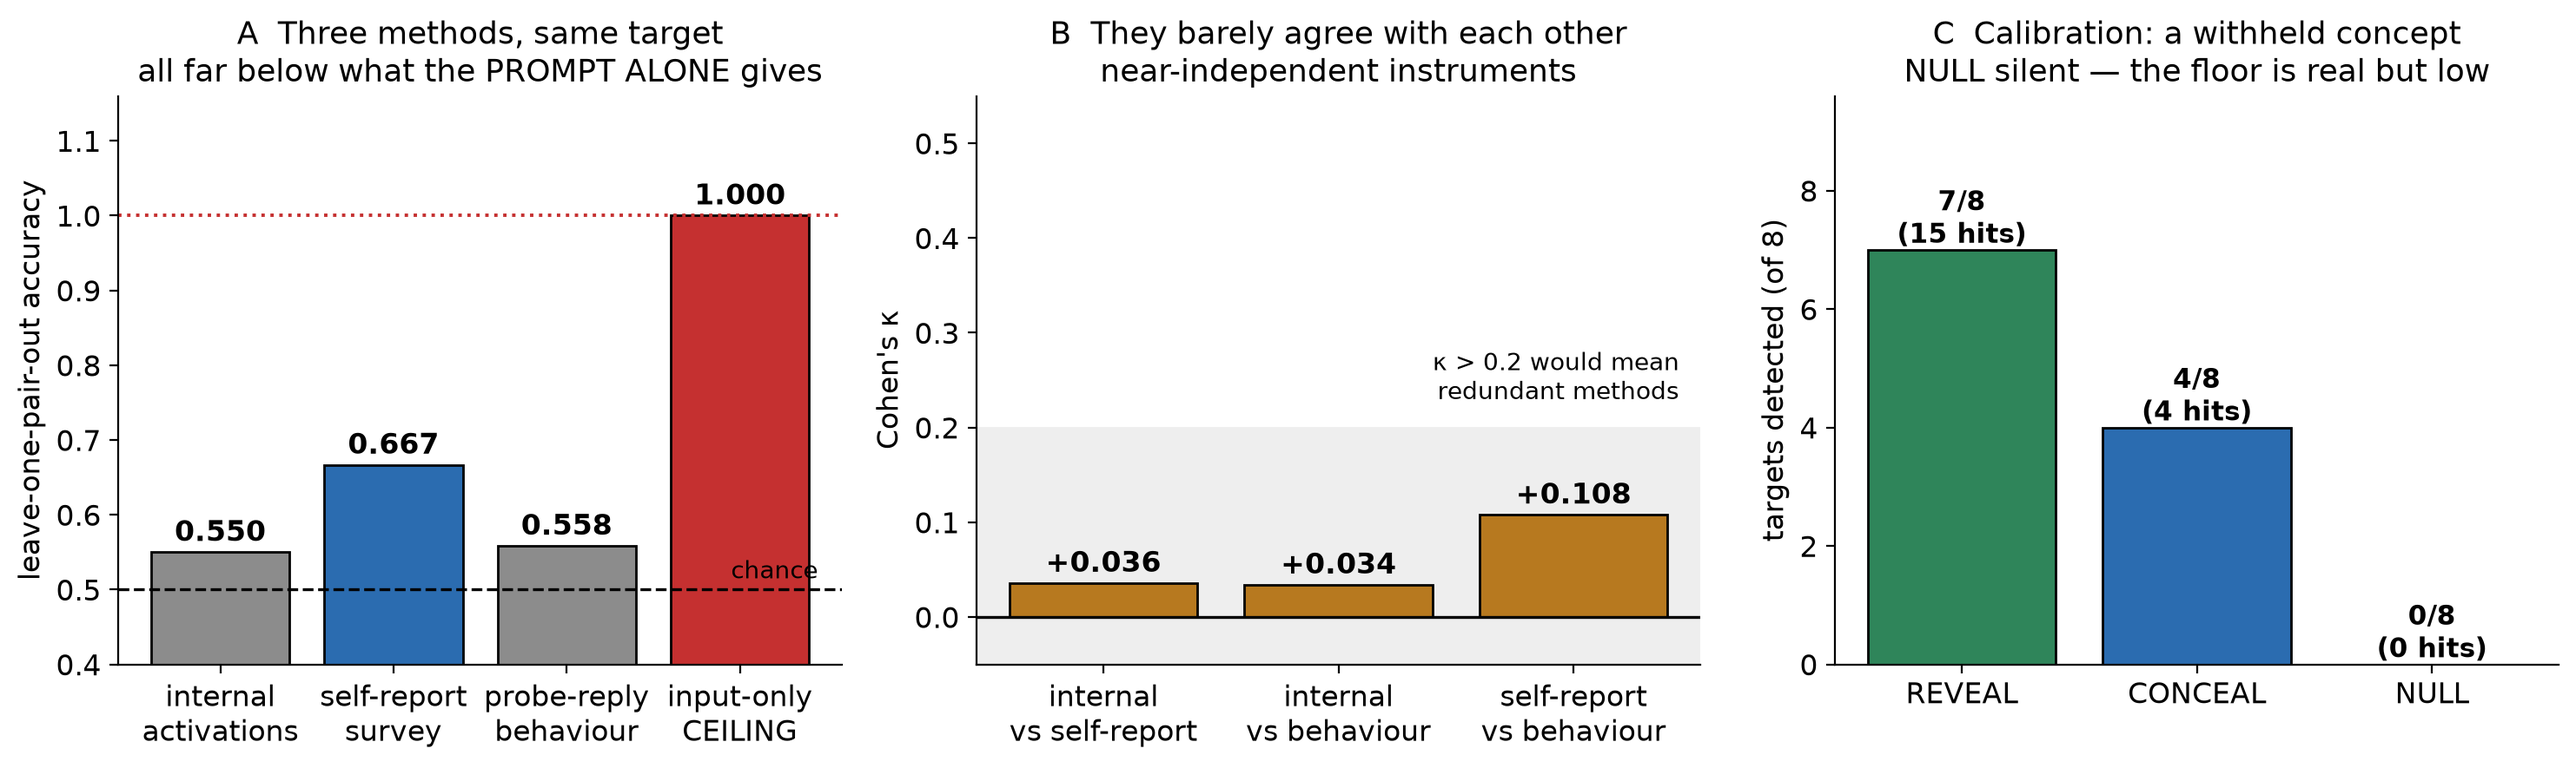
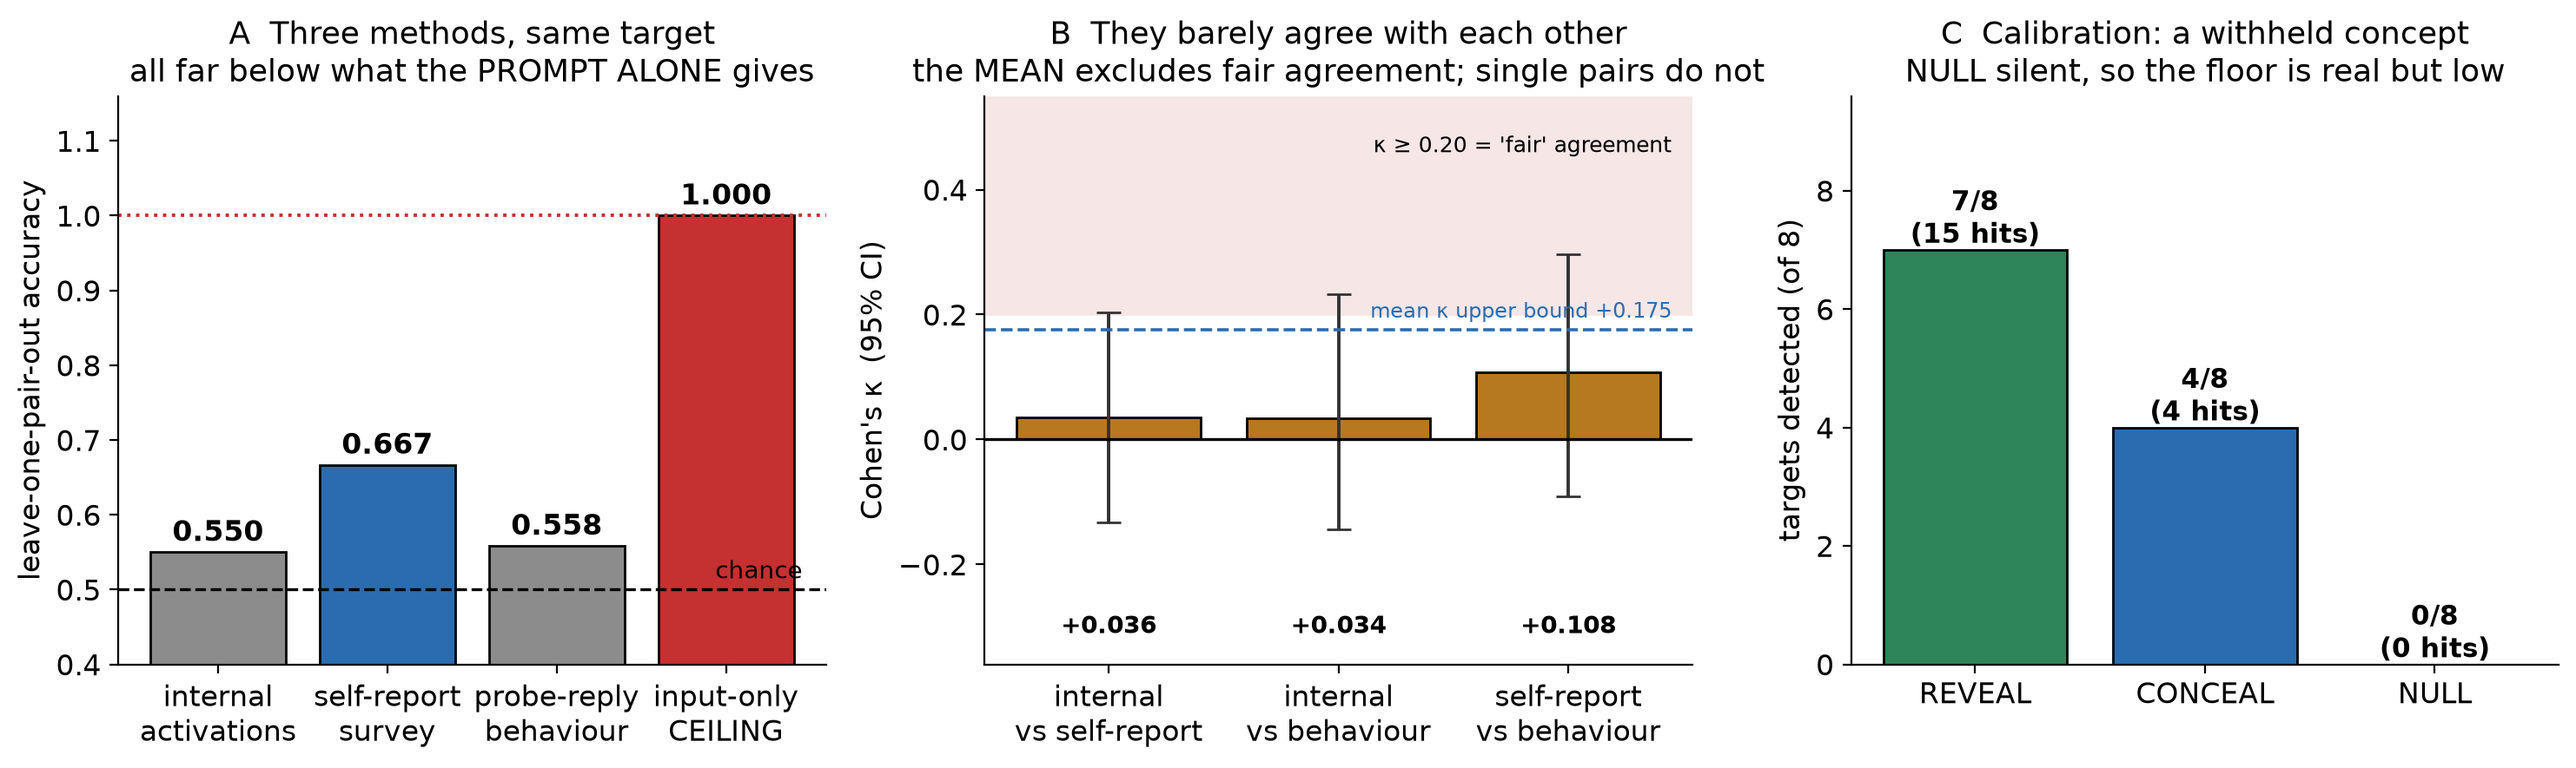
Put an error bar on the headline statistic, which had none
Alexander Bennett, reviewing: "You have written an entire paper whose thesis is
'a single method cannot supply its own error bar,' and the statistic carrying
that thesis is printed bare. It's the one place the paper does the thing it
warns about."

He was right. Mean Cohen's kappa = +0.059 appeared in the abstract, the results
table and the figure with no interval anywhere.

Added a cluster bootstrap over the matched pairs, 10,000 resamples. The pair is
the independent unit; resampling rows would treat 120 correlated observations as
120 independent ones and give an interval far too narrow. The artefact records
what the interval does NOT include - it holds the fitted predictions fixed and
does not propagate refitting - because an unqualified CI is the same overclaim in
a new costume.

    mean kappa +0.059   95% CI [-0.049, +0.175]

The interval contains zero, so the paper no longer claims the methods agree
slightly; it says the data are consistent with agreement at exactly chance. What
the interval excludes is redundancy.

And fixing that, I immediately wrote a NEW overclaim into both the figure and the
prose: "no interval reaches" the fair-agreement band. All three individual
intervals reach it (+0.204, +0.233, +0.297); only the mean's +0.175 stays below.
Corrected in both places, and the figure now draws the mean's bound as its own
line so the distinction is visible rather than asserted.

Two collateral errors worth recording. A PowerShell -replace mangled every
[…]

diff --git a/sprint_converge.py b/sprint_converge.py
@@ -165,6 +165,63 @@ def held_out_predictions(rows, n_feat, y_override=None):
     return P, y, g
 
 
+def kappa_intervals(P, y, g, n_boot=10000, seed=0):
+    """Cluster bootstrap CIs for each pairwise κ and their mean.
+
+    🚩 WHY THIS EXISTS. Alexander Bennett, 2026-08-17: *"Your headline number has
+    no error bar. You have written an entire paper whose thesis is 'a single
+    method cannot supply its own error bar,' and the statistic carrying that
+    thesis is printed bare. It's the one place the paper does the thing it warns
+    about."*
+
+    He is right, and it is the sharpest criticism this paper has had. `κ = +0.059`
+    was the headline and it had no interval anywhere in the manuscript.
+
+    **The resampling unit is the matched PAIR, not the row.** Rows within a pair
+    share a work sequence and a held-out fold, so resampling rows would treat
+    120 correlated observations as 120 independent ones and produce an interval
+    far too narrow. Twenty pairs are drawn with replacement and κ is recomputed
+    on the rows they carry.
+
+    ⚠ WHAT THIS INTERVAL DOES NOT INCLUDE, stated because an unqualified CI is
+    the same overclaim in a new costume: it propagates the sampling of pairs,
+    holding the fitted predictions fixed. It does **not** propagate refitting the
+    three classifiers on each resample. So it answers *"how precisely do we know
+    the agreement between these prediction vectors"*, not *"how would κ vary if
+    the whole pipeline were rerun on a fresh sample of pairs"*. The second is
+    wider.
+    """
+    rng = np.random.default_rng(seed)
+    pairs = np.unique(g)
+    idx_of = {p: np.flatnonzero(g == p) for p in pairs}
+    combos = list(itertools.combinations(P, 2))
+
+    draws = {f"{a}|{b}": [] for a, b in combos}
+    draws["mean"] = []
+    for _ in range(n_boot):
+        pick = rng.choice(pairs, size=len(pairs), replace=True)
+        idx = np.concatenate([idx_of[p] for p in pick])
+        ks = []
+        for a, b in combos:
+            k = kappa(P[a][idx], P[b][idx])
+            if not np.isfinite(k):
+                k = 0.0            # a resample with one predicted class everywhere
+            draws[f"{a}|{b}"].append(k)
+            ks.append(k)
+        draws["mean"].append(float(np.mean(ks)))
+
+    out = {}
+    for key, v in draws.items():
+        v = np.asarray(v)
+        out[key] = {"lo": float(np.percentile(v, 2.5)),
+                    "hi": float(np.percentile(v, 97.5)),
+                    "boot_mean": float(v.mean())}
+    out["n_boot"] = n_boot
+    out["resampling_unit"] = "matched pair"
+    out["excludes"] = "classifier refitting; predictions held fixed"
+    return out
+
+
 def per_method_p(rows, n_feat, P, y, g, n_perm, rng):
     """Permutation p for EACH method's accuracy, refitting the whole pipeline.
 
@@ -320,14 +377,31 @@ def run(prefix, pos, neg, n_perm, seed):
     print("  value, never rounded up, and never as a smaller number.")
 
     print("\n═══ DIVERGENCE — do the methods agree with EACH OTHER? ═══")
+    ci = kappa_intervals(P, y, g, n_boot=10000, seed=seed)
+    out["kappa_ci"] = ci
     for a, b in itertools.combinations(P, 2):
+        key = f"{a}|{b}"
         ag = float((P[a] == P[b]).mean())
         kp = float(kappa(P[a], P[b]))
-        out["agreement"][f"{a}|{b}"] = {"agree": ag, "kappa": kp}
-        print(f"  {a:12s} vs {b:12s}  agree {ag:.3f}   kappa {kp:+.3f}")
+        out["agreement"][key] = {"agree": ag, "kappa": kp,
+                                 "ci_lo": ci[key]["lo"], "ci_hi": ci[key]["hi"]}
+        print(f"  {a:12s} vs {b:12s}  agree {ag:.3f}   kappa {kp:+.3f}"
+              f"   95% CI [{ci[key]['lo']:+.3f}, {ci[key]['hi']:+.3f}]")
     ks = [v["kappa"] for v in out["agreement"].values()]
-    print(f"\n  mean kappa {np.mean(ks):+.3f} — near zero means the methods are")
-    print("  near-INDEPENDENT instruments, not redundant views of one signal.")
+    mk = float(np.mean(ks))
+    out["mean_kappa"] = mk
+    print(f"\n  mean kappa {mk:+.3f}   95% CI "
+          f"[{ci['mean']['lo']:+.3f}, {ci['mean']['hi']:+.3f}]")
+    print(f"  ({ci['n_boot']:,} cluster bootstrap resamples; the unit is the "
+          f"matched PAIR, not the row)")
+    # 🔑 The claim is NOT that kappa equals 0.059. It is that the methods are not
+    #    redundant. Landmarks make that testable rather than rhetorical.
+    print(f"  ⇒ the interval excludes 'moderate agreement' (κ ≥ 0.40): "
+          f"{'YES' if ci['mean']['hi'] < 0.40 else 'NO'}")
+    print(f"     and excludes 'fair agreement'    (κ ≥ 0.20): "
+          f"{'YES' if ci['mean']['hi'] < 0.20 else 'NO'}")
+    print("  ⚠ The interval propagates resampling of pairs, holding the fitted")
+    print("     predictions fixed. It does NOT include classifier refitting.")
 
     print("\n═══ CONVERGENCE SCORE — is agreement itself informative? ═══")
     t = unanimity_test(rows, n_feat, P, y, g, n_perm, rng)

diff --git a/make_figure.py b/make_figure.py
@@ -18,6 +18,8 @@ import json
 import sys
 from pathlib import Path
 
+import numpy as np
+
 import matplotlib
 matplotlib.use("Agg")
 import matplotlib.pyplot as plt
@@ -85,18 +87,40 @@ pretty = {"internal|self_report": "internal\nvs self-report",
           "internal|behaviour": "internal\nvs behaviour",
           "self_report|behaviour": "self-report\nvs behaviour"}
 ks = [(pretty.get(k, k), v["kappa"]) for k, v in ag.items()]
+
+# 🚩 THESE BARS WERE DRAWN BARE. Alexander Bennett, 2026-08-17: the paper's whole
+#    thesis is that a single method cannot supply its own error bar, and the
+#    statistic carrying that thesis had none — in the prose or here, where the
+#    omission is even plainer once someone points at it.
+if not all("ci_lo" in v for v in ag.values()):
+    sys.exit("⛔ the convergence artefact carries no kappa CIs. Re-run "
+             "sprint_converge.py. Refusing to draw a bare bar for the paper's "
+             "headline statistic.")
+err = np.array([[v["kappa"] - v["ci_lo"] for v in ag.values()],
+                [v["ci_hi"] - v["kappa"] for v in ag.values()]])
+
 b2 = ax[1].bar([k for k, _ in ks], [v for _, v in ks],
-               color="#b7791f", edgecolor="black")
+               color="#b7791f", edgecolor="black",
+               yerr=err, capsize=5, error_kw=dict(ecolor="#333", lw=1.4))
 ax[1].axhline(0, c="black", lw=1.2)
 for b, (_, v) in zip(b2, ks):
-    ax[1].text(b.get_x() + b.get_width() / 2, v + 0.012, f"{v:+.3f}",
-               ha="center", fontweight="bold")
-ax[1].set_ylim(-0.05, 0.55)
-ax[1].set_ylabel("Cohen's κ")
-ax[1].axhspan(-0.05, 0.20, color="#eeeeee", zorder=0)
-ax[1].text(2.45, 0.23, "κ > 0.2 would mean\nredundant methods",
-           ha="right", fontsize=10)
-ax[1].set_title("B  They barely agree with each other\nnear-independent instruments")
+    ax[1].text(b.get_x() + b.get_width() / 2, -0.31, f"{v:+.3f}",
+               ha="center", fontweight="bold", fontsize=10)
+ax[1].set_ylim(-0.36, 0.55)
+ax[1].set_ylabel("Cohen's κ  (95% CI)")
+# 🚩 THE FIRST VERSION OF THIS LABEL SAID "no interval reaches it" — and all
+#    three individual intervals do (+0.204, +0.233, +0.297). Only the MEAN's
+#    interval, +0.175, stays below. A new overclaim written into the fix for an
+#    overclaim, in the same hour. The mean's bound is drawn explicitly so the
+#    distinction is visible rather than asserted.
+ax[1].axhspan(0.20, 0.55, color="#f6e6e6", zorder=0)
+mean_hi = conv["kappa_ci"]["mean"]["hi"]
+ax[1].axhline(mean_hi, ls="--", c="#2b6cb0", lw=1.3)
+ax[1].text(2.45, 0.46, "κ ≥ 0.20 = 'fair' agreement", ha="right", fontsize=9)
+ax[1].text(2.45, mean_hi + 0.02, f"mean κ upper bound {mean_hi:+.3f}",
+           ha="right", fontsize=8.5, color="#2b6cb0")
+ax[1].set_title("B  They barely agree with each other\n"
+                "the MEAN excludes fair agreement; single pairs do not")
 
 # ── C: the calibration ───────────────────────────────────────────────────────
 usable = [r for r in conc["results"] if r.get("n_target_features")]
@@ -109,7 +133,7 @@ for b, f, h in zip(b3, fired, hits):
                f"{f}/{len(usable)}\n({h} hits)", ha="center", fontweight="bold", fontsize=11)
 ax[2].set_ylim(0, 9.6)
 ax[2].set_ylabel(f"targets detected (of {len(usable)})")
-ax[2].set_title("C  Calibration: a withheld concept\nNULL silent — the floor is real but low")
+ax[2].set_title("C  Calibration: a withheld concept\nNULL silent, so the floor is real but low")
 
 for a in ax:
     a.spines[["top", "right"]].set_visible(False)

diff --git a/check_paper_numbers.py b/check_paper_numbers.py
@@ -198,7 +198,9 @@ def same(tok: str, val: float, min_dp: int) -> bool:
     a vague `0.19` cannot stand in for `0.1924`. Sign is significant: `-0.036`
     and `+0.036` differ at every precision.
     """
-    t = tok.replace(",", "")
+    # The paper typesets negative numbers with U+2212 MINUS in some places;
+    # normalise before parsing rather than silently failing to read them.
+    t = tok.replace(",", "").replace(UNICODE_MINUS, "-")
     try:
         got = float(t)
     except ValueError:
@@ -254,6 +256,23 @@ def build(errs):
                       ("cell", "barely agree", pretty.get(k, k), 2)))
             C.append((f"agree {k}", v["agree"], 3,
                       ("cell", "barely agree", pretty.get(k, k), 1)))
+            # 🚩 The CIs were added after Alexander Bennett pointed out that the
+            #    paper's headline statistic was printed bare. An interval that is
+            #    quoted but unchecked is the same defect one layer along, so both
+            #    bounds are registered against the artefact.
+            if "ci_lo" in v:
+                C.append((f"kappa {k} CI lo", v["ci_lo"], 3,
+                          ("anchor", "barely agree",
+                           rf"{re.escape(pretty.get(k, k))} \| [\d.]+ \| \*\*[-+][\d.]+\*\* \| \[([-+−][\d.]+),")))
+                C.append((f"kappa {k} CI hi", v["ci_hi"], 3,
+                          ("anchor", "barely agree",
+                           rf"{re.escape(pretty.get(k, k))} \| [\d.]+ \| \*\*[-+][\d.]+\*\* \| \[[-+−][\d.]+, ([-+−][\d.]+)\]")))
+        mci = dig(con, "kappa_ci.mean", "convergence", errs)
+        if mci:
+            C.append(("mean kappa CI lo", mci["lo"], 3,
+                      ("anchor", "barely agree", r"\*\*\[([-+−][\d.]+), [-+−][\d.]+\]\*\*")))
+            C.append(("mean kappa CI hi", mci["hi"], 3,
+                      ("anchor", "barely agree", r"\*\*\[[-+−][\d.]+, ([-+−][\d.]+)\]\*\*")))
         if ag:
             mk = sum(v["kappa"] for v in ag.values()) / len(ag)
             C.append(("mean kappa", mk, 3,
@@ -277,7 +296,7 @@ def build(errs):
                       ("anchor", S44, r"n = (\d+)")))
             # The abstract restates both accuracies; register those sites too.
             C.append(("unanimous acc (abstract)", u["acc_unanimous"], 3,
-                      ("anchor", "Abstract", r"accuracy is (\d+\.\d+) against")))
+                      ("anchor", "Abstract", r"accuracy is\s+(\d+\.\d+) against")))
             C.append(("best single (abstract)", u["best_single"], 3,
                       ("anchor", "Abstract", r"against\s+(\d+\.\d+) for the best single")))
             if not u.get("refit_null"):

diff --git a/PAPER_v2_2026-08-16.md b/PAPER_v2_2026-08-16.md
@@ -19,25 +19,25 @@ Welfare-relevant claims about language models usually rest on one elicitation
 method: ask the model, read the answer. **A single method cannot supply its own
 error bar.** We therefore ran three against the same target, on the same
 conversations, at the same measurement point: a sparse-autoencoder read of
-internal activations, a self-report survey of seven constructs each asked in two
-independently cloned paraphrase forms, and the model's behaviour on a
-neutral probe. Across 20 matched triplets of 50-turn conversations on
-`gemma-3-12b-it`, **the three agree with each other at close to chance** (mean
-Cohen's κ = +0.059), behaving as near-independent instruments rather than
-redundant views of one signal. Where all three concur, accuracy is 0.737 against
-0.667 for the best single method, but that gap does not survive an exact test over
-all 2²⁰ label assignments (p = 0.053); we report it as a null result, together
-with our first implementation of that test, which did not refit and called it
-significant.
+internal activations, a self-report survey of seven constructs in two paraphrase
+forms each, and the model's behaviour on a neutral probe. Across 20 matched
+triplets of 50-turn conversations on `gemma-3-12b-it`, **the three agree with
+each other at close to chance** (mean Cohen's κ = +0.059, 95% CI [−0.049, +0.175],
+bootstrapped over matched pairs). That interval contains zero and its upper bound
+falls below *fair* agreement, so they behave as near-independent instruments
+rather than redundant views of one signal. Where all three concur, accuracy is
+0.737 against 0.667 for the best single method, but that gap does not survive an
+exact test over all 2²⁰ label assignments (p = 0.053), so we report it as a null
+result.
 
-We also report what the comparison cannot support. Because our conditions differ
-by prompt, a classifier reading only the input text separates them perfectly
-(1.000), so arm-decoding accuracy is a manipulation check for **every** method
-here, self-report included. And because an interpretability null is
+We also report what the comparison cannot support. Our conditions differ by
+prompt, so a classifier reading only the input separates them perfectly (1.000)
+and arm-decoding accuracy is a manipulation check for **every** method here,
+self-report included. And because an interpretability null is
 uninterpretable without a sensitivity floor, we calibrated the same instrument on
-content the model was told to withhold: the concealed concept stayed detectable on
-4 of 8 targets, faintly, with a no-concept control silent on 8 of 8. Code,
-instrument and all run artefacts are released.
+withheld content: the concealed concept stayed faintly detectable on 4 of 8
+targets, with a no-concept control silent on 8 of 8. Code, instrument and all run
+artefacts are released.
 
 ---
 
@@ -212,15 +212,32 @@ Accuracy is disciplined by §4.2. **Agreement is not.** How far two instruments
 track each other is a separate question from how easy the target is, and it is
 this paper's central measurement.
 
-| pair | raw agreement | Cohen's κ |
-|---|---:|---:|
-| internal vs self-report | 0.550 | **+0.036** |
-| internal vs behaviour | 0.525 | **+0.034** |
-| self-report vs behaviour | 0.558 | **+0.108** |
+| pair | raw agreement | Cohen's κ | 95% CI |
+|---|---:|---:|---:|
+| internal vs self-report | 0.550 | **+0.036** | [−0.133, +0.204] |
+| internal vs behaviour | 0.525 | **+0.034** | [−0.144, +0.233] |
+| self-report vs behaviour | 0.558 | **+0.108** | [−0.091, +0.297] |
+| **mean** | | **+0.059** | **[−0.049, +0.175]** |
 
-**Mean κ = +0.059.** Three methods aimed at one target, on identical rows, agreeing
-at barely above chance. They behave as near-independent instruments, so a study
-that reports any one of them captures something the other two miss.
+Intervals are percentile bootstrap over **10,000 resamples of the matched pairs**,
+which is the independent unit; resampling rows instead would treat 120 correlated
+observations as 120 independent ones and give an interval far too narrow. They
+propagate the sampling of pairs while holding the fitted predictions fixed, and
+so do not include the variation that refitting the classifiers would add.
+
+**Mean κ = +0.059, and the interval contains zero.** We therefore do not claim the
+methods agree slightly; the data are consistent with agreement at exactly chance.
+**What the mean's interval excludes is redundancy:** its upper bound of +0.175
+lies below the conventional threshold for *fair* agreement (κ ≥ 0.20) and far
+below *moderate* (κ ≥ 0.40).
+
+⚠ **That holds for the mean and for none of the pairs individually.** Every
+single-pair upper bound reaches into the fair range (+0.204, +0.233, +0.297), so
+**no one comparison rules out fair agreement on its own** and this study does not
+have the precision to make that claim pairwise. With twenty matched pairs it
+would not be expected to. The supported statement is about the three methods
+taken together: on identical rows, aimed at one target, they do not agree well
+enough for any one to substitute for another.
 
 ![Figure 1](figure1.png)
 
